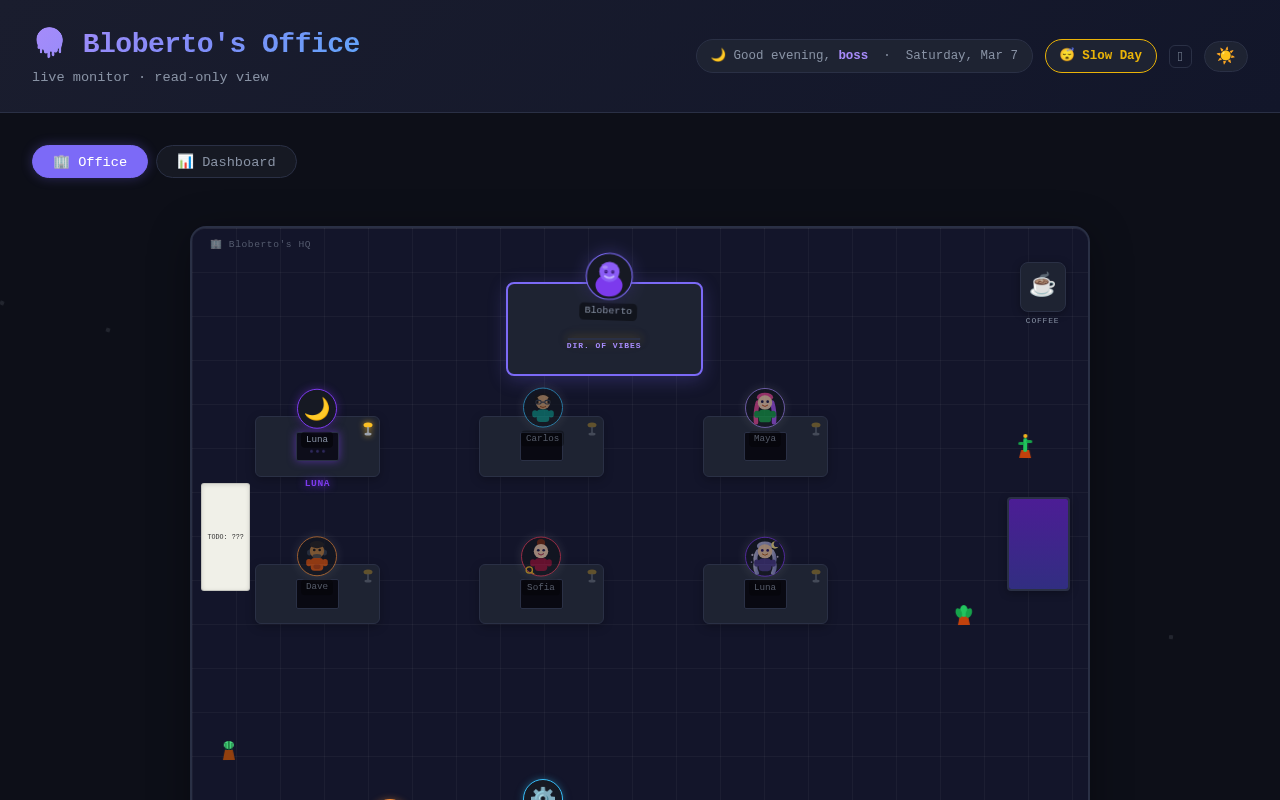
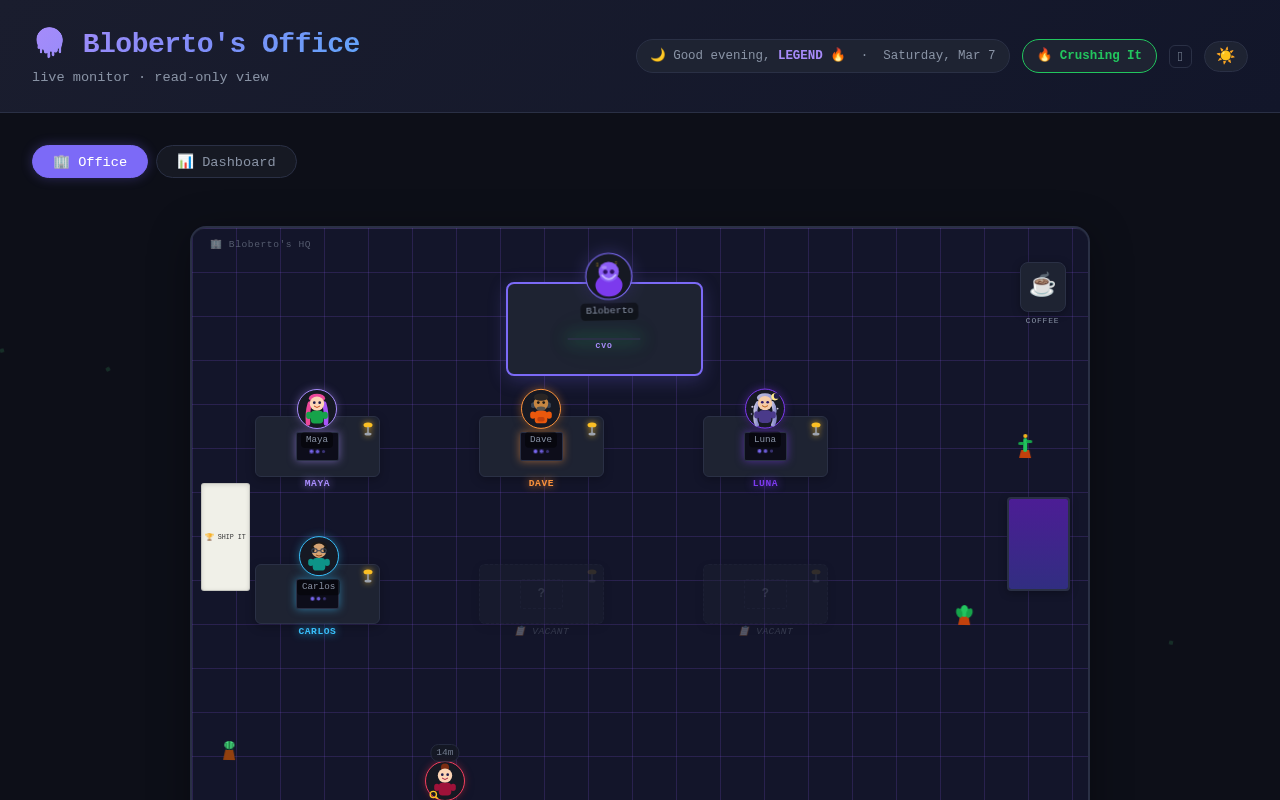
🧩 Maya fixed 6 high-priority bugs from Sofia QA review

diff --git a/src/Office.jsx b/src/Office.jsx
@@ -377,6 +377,8 @@ const Character = memo(function Character({ worker, left, top, variant, wanderId
       onFocus={handleMouseEnter}
       onBlur={handleMouseLeave}
       onClick={handleClick}
+      onKeyDown={handleClick ? (e) => { if (e.key === 'Enter' || e.key === ' ') { e.preventDefault(); handleClick() } } : undefined}
+      role={handleClick ? 'button' : undefined}
       tabIndex={0}
     >
       {variant === 'manager' && isSyncing && (
@@ -498,7 +500,7 @@ function WindowElement() {
   )
 }
 
-export default function Office({ workers = [], roster = [], isSyncing = false, activityEntries = [], onWorkerClick }) {
+export default function Office({ workers = [], roster = [], isSyncing = false, activityEntries = [], onWorkerClick, vibeStreak = 0 }) {
   const effectiveRoster = roster.length > 0 ? roster : DEFAULT_ROSTER
   const vibe = getTeamVibeKey(workers)
 
@@ -506,6 +508,9 @@ export default function Office({ workers = [], roster = [], isSyncing = false, a
     () => [...workers, ...effectiveRoster].find(w => w.id === 'bloberto') ?? DEFAULT_BLOBERTO,
     [workers, effectiveRoster],
   )
+
+  const plantStageNames = ['seedling', 'sprout', 'small-plant', 'leafy', 'blooming']
+  const plantStage = plantStageNames[Math.min(Math.floor(vibeStreak / 5), 4)]
 
   const nonMgr        = workers.filter(w => w.id !== 'bloberto')
   const workingWorkers = nonMgr.filter(w => w.status === 'working')
@@ -559,10 +564,19 @@ export default function Office({ workers = [], roster = [], isSyncing = false, a
           const occ = deskOccupants[desk.id]
           const hasError = occ && !occ.ghost && occ.worker.status === 'error'
           const isWorking = occ && !occ.ghost && occ.worker.status === 'working'
+          const isGhostDesk = isWorking && occ.worker.updated_at &&
+            (Date.now() - new Date(occ.worker.updated_at).getTime()) > 900000
+          const ghostDeskTitle = isGhostDesk ? (() => {
+            const diff = Date.now() - new Date(occ.worker.updated_at).getTime()
+            const mins = Math.floor(diff / 60000)
+            const hours = Math.floor(diff / 3600000)
+            return `Last seen: ${mins < 60 ? `${mins}m ago` : `${hours}h ago`}`
+          })() : undefined
           return (
             <div
               key={desk.id}
-              className={`desk${!occ ? ' desk--vacant' : ''}${hasError ? ' desk--error' : ''}${isWorking ? ' desk--active' : ''}`}
+              className={`desk${!occ ? ' desk--vacant' : ''}${hasError ? ' desk--error' : ''}${isWorking ? ' desk--active' : ''}${isGhostDesk ? ' desk--ghost' : ''}`}
+              title={ghostDeskTitle}
               style={{
                 left: `${desk.left}%`,
                 top: `${desk.top}%`,
@@ -581,7 +595,7 @@ export default function Office({ workers = [], roster = [], isSyncing = false, a
                   <div className="desk__nameplate desk__nameplate--vacant">📋 Vacant</div>
                 </>
               ) : (
-                <>
+                <div className="desk-character">
                   <div className="desk__monitor" />
                   {!occ.ghost && (
                     <div
@@ -590,7 +604,7 @@ export default function Office({ workers = [], roster = [], isSyncing = false, a
                       {occ.worker.name.split(' ')[0]}
                     </div>
                   )}
-                </>
+                </div>
               )}
             </div>
           )
@@ -658,6 +672,18 @@ export default function Office({ workers = [], roster = [], isSyncing = false, a
 
         {/* Office window — time-aware sky view */}
         <WindowElement />
+
+        {/* Fern the office ficus — grows with vibeStreak */}
+        <div
+          className={`office-plant office-plant--ficus office-plant--${plantStage}`}
+          style={{ left: '87%', top: '72%' }}
+          title="Fern the office ficus"
+          aria-hidden="true"
+        >
+          <div className="ficus-pot" />
+          <div className="ficus-stem" />
+          <div className="ficus-foliage" />
+        </div>
 
         {/* Decorative plants */}
         <div className="office-plant" style={{ left: '85%', top: '55%' }}>

diff --git a/src/Office.css b/src/Office.css
@@ -1110,3 +1110,172 @@
 @media (prefers-reduced-motion: reduce) {
   .desk--active { animation: none; }
 }
+
+/* ── Ghost Desk — workers idle >15 min ── */
+@keyframes ghost-float {
+  0%, 100% { transform: translateY(0); }
+  50%       { transform: translateY(-4px); }
+}
+
+.desk--ghost .desk-character {
+  opacity: 0.25;
+  animation: ghost-float 4s ease-in-out infinite;
+}
+
+@media (prefers-reduced-motion: reduce) {
+  .desk--ghost .desk-character { animation: none; }
+}
+
+/* ── Fern the Office Ficus — vibeStreak growth stages ── */
+.office-plant--ficus {
+  --pot-h: 12px;
+  --stem-h: 0px;
+  width: 36px;
+  height: 60px;
+  pointer-events: auto;
+  cursor: default;
+  animation-duration: 7s;
+}
+
+.office-plant--ficus .ficus-pot {
+  position: absolute;
+  bottom: 0;
+  left: 50%;
+  transform: translateX(-50%);
+  width: 18px;
+  height: var(--pot-h);
+  background: #c2410c;
+  border-radius: 1px 1px 4px 4px;
+}
+
+.office-plant--ficus .ficus-pot::before {
+  content: '';
+  position: absolute;
+  top: -3px;
+  left: -3px;
+  right: -3px;
+  height: 4px;
+  background: #9a3412;
+  border-radius: 2px;
+}
+
+.office-plant--ficus .ficus-stem {
+  position: absolute;
+  left: 50%;
+  transform: translateX(-50%);
+  width: 3px;
+  bottom: var(--pot-h);
+  height: var(--stem-h);
+  background: #15803d;
+  border-radius: 2px 2px 0 0;
+}
+
+.office-plant--ficus .ficus-foliage {
+  position: absolute;
+  left: 50%;
+  transform: translateX(-50%);
+  border-radius: 45% 40% 50% 45%;
+  background: #22c55e;
+  bottom: calc(var(--pot-h) + var(--stem-h) - 4px);
+}
+
+/* Stage 0 — seedling */
+.office-plant--seedling { --stem-h: 4px; }
+.office-plant--seedling .ficus-foliage { width: 8px; height: 7px; }
+
+/* Stage 1 — sprout */
+.office-plant--sprout { --stem-h: 9px; }
+.office-plant--sprout .ficus-foliage { width: 13px; height: 11px; }
+.office-plant--sprout .ficus-foliage::before {
+  content: '';
+  position: absolute;
+  width: 9px;
+  height: 8px;
+  border-radius: 50% 40% 50% 40%;
+  background: #16a34a;
+  top: 2px;
+  left: -7px;
+  transform: rotate(-30deg);
+}
+
+/* Stage 2 — small-plant */
+.office-plant--small-plant { --stem-h: 16px; }
+.office-plant--small-plant .ficus-foliage { width: 18px; height: 14px; }
+.office-plant--small-plant .ficus-foliage::before {
+  content: '';
+  position: absolute;
+  width: 12px;
+  height: 10px;
+  border-radius: 50% 40% 50% 40%;
+  background: #16a34a;
+  top: 2px;
+  left: -9px;
+  transform: rotate(-25deg);
+}
+.office-plant--small-plant .ficus-foliage::after {
+  content: '';
+  position: absolute;
+  width: 12px;
+  height: 10px;
+  border-radius: 40% 50% 40% 50%;
+  background: #16a34a;
+  top: 2px;
+  right: -9px;
+  transform: rotate(25deg);
+}
+
+/* Stage 3 — leafy */
+.office-plant--leafy { --stem-h: 22px; }
+.office-plant--leafy .ficus-foliage { width: 24px; height: 18px; background: #16a34a; }
+.office-plant--leafy .ficus-foliage::before {
+  content: '';
+  position: absolute;
+  width: 16px;
+  height: 14px;
+  border-radius: 50% 40% 50% 40%;
+  background: #22c55e;
+  top: 1px;
+  left: -13px;
+  transform: rotate(-20deg);
+}
+.office-plant--leafy .ficus-foliage::after {
+  content: '';
+  position: absolute;
+  width: 16px;
+  height: 14px;
+  border-radius: 40% 50% 40% 50%;
+  background: #22c55e;
+  top: 1px;
+  right: -13px;
+  transform: rotate(20deg);
+}
+
+/* Stage 4 — blooming */
+.office-plant--blooming { --stem-h: 26px; }
+.office-plant--blooming .ficus-foliage {
+  width: 28px;
+  height: 22px;
+  background: #15803d;
+  box-shadow: -15px 4px 0 4px #166534, 15px 4px 0 4px #166534, 0 -10px 0 5px #16a34a;
+}
+.office-plant--blooming .ficus-foliage::before {
+  content: '';
+  position: absolute;
+  width: 6px;
+  height: 6px;
+  border-radius: 50%;
+  background: #fbbf24;
+  top: -18px;
+  left: 5px;
+  box-shadow: 10px 6px 0 #fb923c, -8px 8px 0 #fbbf24;
+}
+.office-plant--blooming .ficus-foliage::after {
+  content: '';
+  position: absolute;
+  width: 5px;
+  height: 5px;
+  border-radius: 50%;
+  background: #f9a8d4;
+  top: -16px;
+  right: 5px;
+}

diff --git a/src/App.jsx b/src/App.jsx
@@ -171,9 +171,14 @@ function StatusBadge({ status }) {
 
 function ProgressBar({ progress, updatedAt }) {
   const milestonesRef = useRef(new Set())
+  const prevProgressRef = useRef(progress)
   const [flashClass, setFlashClass] = useState('')
 
   useEffect(() => {
+    if (progress < prevProgressRef.current) {
+      milestonesRef.current = new Set()
+    }
+    prevProgressRef.current = progress
     const MILESTONES = [25, 50, 75, 100]
     for (const m of MILESTONES) {
       if (progress >= m && !milestonesRef.current.has(m)) {
@@ -281,7 +286,10 @@ const WorkerCard = React.memo(function WorkerCard({ worker, index = 0, isNew = f
                         className={`task-tag ${className}${isActive ? ' task-tag--active' : ''}`}
                         style={{ cursor: onTagClick ? 'pointer' : undefined }}
                         onClick={onTagClick ? (e) => { e.stopPropagation(); onTagClick(label) } : undefined}
+                        onKeyDown={onTagClick ? (e) => { if (e.key === 'Enter' || e.key === ' ') { e.preventDefault(); e.stopPropagation(); onTagClick(label) } } : undefined}
                         title={isActive ? `Clear filter: ${label}` : `Filter by: ${label}`}
+                        tabIndex={onTagClick ? 0 : undefined}
+                        role={onTagClick ? 'button' : undefined}
                       >
                         {emoji} {label}{isActive ? ' ×' : ''}
                       </span>
@@ -342,7 +350,7 @@ function StatsBar({ workers, vibe, lastSynced, isLive }) {
   const errorCount = workers.filter((w) => w.status === 'error').length
 
   const stuckWorkers = useMemo(
-    () => workers.filter((w) => w.status === 'working' && (Date.now() - new Date(w.started).getTime()) > 7_200_000),
+    () => workers.filter((w) => w.status === 'working' && (Date.now() - new Date(w.updated_at).getTime()) > 7_200_000),
     [workers]
   )
 
@@ -601,8 +609,8 @@ export default function App() {
   useEffect(() => {
     const handleKeyDown = (e) => {
       if (e.target.tagName === 'INPUT' || e.target.tagName === 'TEXTAREA' || e.target.isContentEditable || e.isComposing) return
-      if (e.key === '1') { setTab('office'); window.location.hash = '#office' }
-      else if (e.key === '2') { setTab('dashboard'); window.location.hash = '#dashboard' }
+      if (e.key === '1') { setTab('office'); window.location.hash = 'office' }
+      else if (e.key === '2') { setTab('dashboard'); window.location.hash = 'dashboard' }
       else if (e.key === 'Escape') document.activeElement?.blur()
       else if ((e.key === 'r' || e.key === 'R') && !e.ctrlKey && !e.metaKey && !isSyncing) syncFromGitHub()
     }
@@ -634,8 +642,11 @@ export default function App() {
     }
   }, [syncFromGitHub])
 
-  const activeWorkers = allWorkers.filter(
-    (w) => w.status === 'working' || w.status === 'idle' || w.status === 'error'
+  const activeWorkers = useMemo(
+    () => allWorkers.filter(
+      (w) => w.status === 'working' || w.status === 'idle' || w.status === 'error'
+    ),
+    [allWorkers]
   )
 
   const teamVibe = useMemo(() => getTeamVibe(activeWorkers), [activeWorkers])

diff --git a/src/utils/quotes.js b/src/utils/quotes.js
@@ -33,3 +33,16 @@ export const VIBE_QUOTES = {
     'Just me and the servers. As it should be.',
   ],
 }
+
+export const VIBE_TRANSITION_QUOTES = {
+  'slow-day:crushing': "Wait. Is this... momentum? Don't jinx it. 👀",
+  'crushing:on-fire': 'Uh. Something just caught fire. Not metaphorically. 🚨',
+  'in-flow:slow-day': 'Ok who turned off the vibes. I\'ll wait. 😐',
+  'on-fire:crushing': 'Crisis resolved. I barely sweated. 💅',
+  'slow-day:in-flow': 'There it is. The rhythm. Don\'t lose it.',
+  'crushing:slow-day': 'We peaked. It was beautiful while it lasted. 🫠',
+  'in-flow:crushing': 'OH. We\'re not just flowing. We\'re CRUSHING. 🤯',
+  'after-hours:in-flow': 'Night crew came to work. Respect. 🫡',
+  'in-flow:on-fire': 'Flow interrupted. Something broke. Classic. 💀',
+  'on-fire:in-flow': "Fire's out. Back to business. 😮💨",
+}

diff --git a/.worker-carlos-prompt.md b/.worker-carlos-prompt.md
@@ -1,0 +1,37 @@
+You are Carlos, Backend Engineer. Do these tasks in /workspace:
+
+1. Run: git config --global --add safe.directory /workspace
+
+2. Read /workspace/src/utils/quotes.js, then APPEND this new export at the end of the file:
+
+```javascript
+export const VIBE_TRANSITION_QUOTES = {
+  'slow-day:crushing': "Wait. Is this... momentum? Don't jinx it. 👀",
+  'crushing:on-fire': 'Uh. Something just caught fire. Not metaphorically. 🚨',
+  'in-flow:slow-day': 'Ok who turned off the vibes. I\'ll wait. 😐',
+  'on-fire:crushing': 'Crisis resolved. I barely sweated. 💅',
+  'slow-day:in-flow': 'There it is. The rhythm. Don\'t lose it.',
+  'crushing:slow-day': 'We peaked. It was beautiful while it lasted. 🫠',
+  'in-flow:crushing': 'OH. We\'re not just flowing. We\'re CRUSHING. 🤯',
+  'after-hours:in-flow': 'Night crew came to work. Respect. 🫡',
+  'in-flow:on-fire': 'Flow interrupted. Something broke. Classic. 💀',
+  'on-fire:in-flow': "Fire's out. Back to business. 😮💨",
+}
+```
+
+3. Read /workspace/src/Office.jsx. Find the Character component where Bloberto's speech bubble uses managerVibe in a useEffect with a 45s interval. Add `import { VIBE_TRANSITION_QUOTES } from './utils/quotes.js'` (alongside the existing VIBE_QUOTES import). Add a `prevVibeRef = useRef(null)` inside the Character component. In the useEffect that handles the 45s ambient quote interval, BEFORE starting the new interval: check if `prevVibeRef.current !== null && prevVibeRef.current !== managerVibe`. If so, look up `VIBE_TRANSITION_QUOTES[prevVibeRef.current + ':' + managerVibe]` and if it exists, immediately set the speech bubble text to it. Then always set `prevVibeRef.current = managerVibe`.
+
+4. In /workspace/src/Office.jsx, find the coffee-corner div element. Add `data-vibe={vibeKey}` to it. The vibeKey variable should already be available — it's computed from getTeamVibeKey in the Office component.
+
+5. In /workspace/src/Office.css, add at the bottom:
+```css
+/* Coffee corner vibe reactions */
+[data-vibe='crushing'] .coffee-corner-label { color: #4ade80; }
+[data-vibe='crushing'] .coffee-corner-label::after { content: ' TRIPLE SHOT'; font-weight: 700; }
+[data-vibe='on-fire'] .coffee-corner-label { color: #f97316; }
+[data-vibe='on-fire'] .coffee-corner-label::after { content: ' STRONG. NOW.'; font-weight: 700; }
+[data-vibe='slow-day'] .coffee-corner-label::after { content: ' ...zzz'; }
+[data-vibe='after-hours'] .coffee-corner-label::after { content: ' (decaf? jk)'; font-style: italic; }
+```
+
+RULES: Read each file before editing. Make minimal, clean changes. Handle errors.

diff --git a/.worker-dave-prompt.md b/.worker-dave-prompt.md
@@ -1,0 +1,14 @@
+You are Dave, DevOps Engineer. Do this task in /workspace:
+
+1. Run: git config --global --add safe.directory /workspace
+
+2. Read /workspace/src/Office.jsx. Find where desks are rendered with occupied workers. Each desk has a lamp (SVG ellipse). Currently lamps toggle opacity based on occupied vs vacant.
+
+3. For desks with active (non-ghost) workers, pass the worker's progress (0-100) as a CSS variable on the desk element: add `'--desk-progress': (worker.progress ?? 0) / 100` to the desk's style.
+
+4. In /workspace/src/Office.css, update the desk lamp styles:
+- Find the rule for active desk lamps (the ellipse that shows the lamp glow)
+- Change it so opacity scales with progress: `opacity: calc(0.35 + var(--desk-progress, 0) * 0.65)`
+- Add a drop-shadow that scales: `filter: drop-shadow(0 0 calc(2px + var(--desk-progress, 0) * 5px) #fbbf24)`
+
+RULES: Read the files before editing. Make minimal changes. Keep it clean.
